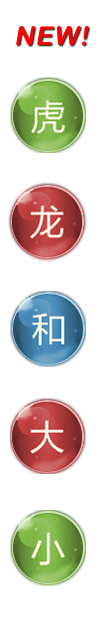
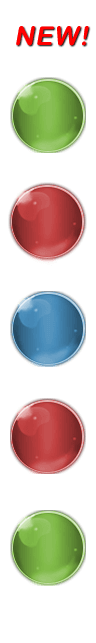
路珠樣式更新

diff --git a/h5_doublesided/static/css/page.css b/h5_doublesided/static/css/page.css
@@ -389,7 +389,7 @@ i.prd { background-image: url("../../static/images/page/icon_pn.png"); backgroun
 
 .road > ul { background-color: #0d1522; -webkit-border-radius: 0.2rem; -moz-border-radius: 0.2rem; -ms-border-radius: 0.2rem; border-radius: 0.2rem; margin-top: .5rem; padding-top: .2rem; }
 
-.road > ul > li { background: url("../../static/images/page/road.png") no-repeat center top; background-size: 100%; width: .8rem; height: .8rem; margin: 0 auto; text-align: center; background-position-y: 0; }
+.road > ul > li { background: url("../../static/images/page/road.png") no-repeat center top; background-size: 100%; width: .8rem; height: .8rem; margin: 0 auto; text-align: center; background-position-y: 0; color: #fff; font-size: 0.35rem; line-height: .6rem; }
 
 .road > ul > li.tiger { background-position-y: 14%; }
 

diff --git a/h5_doublesided/static/scss/_record.scss b/h5_doublesided/static/scss/_record.scss
@@ -474,6 +474,9 @@ i.prd{
             margin: 0 auto;
             text-align: center;
             background-position-y: 0;
+            color: #fff;
+            font-size: 0.35rem;
+            line-height: .6rem;
             &.tiger{
                 background-position-y: 14%;
             }
